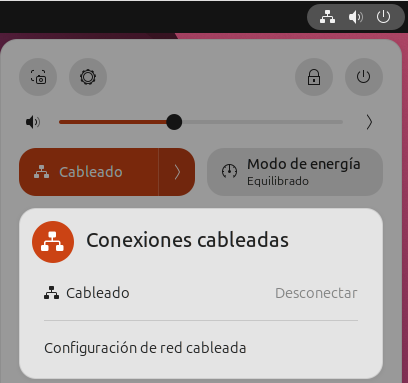
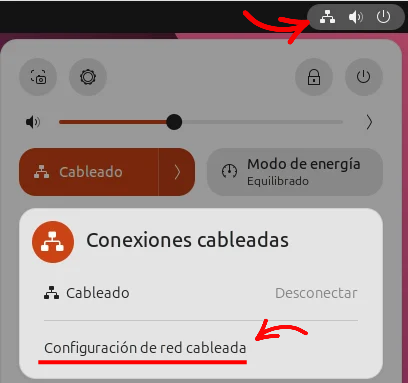
act

diff --git a/ubuntu/sprint1/index.html b/ubuntu/sprint1/index.html
@@ -1120,7 +1120,7 @@
       <figure class="captura-sprint">
 
         <img
-          src="../../img/ubuntu/sprint1Ubuntu/P6/2Sprint1P06Ubuntu.png"
+          src="../../img/ubuntu/sprint1Ubuntu/P6/2Sprint1P06Ubuntu.png"height="200"
           alt="Comprovació del funcionament del DNS amb ping"
         >
 
